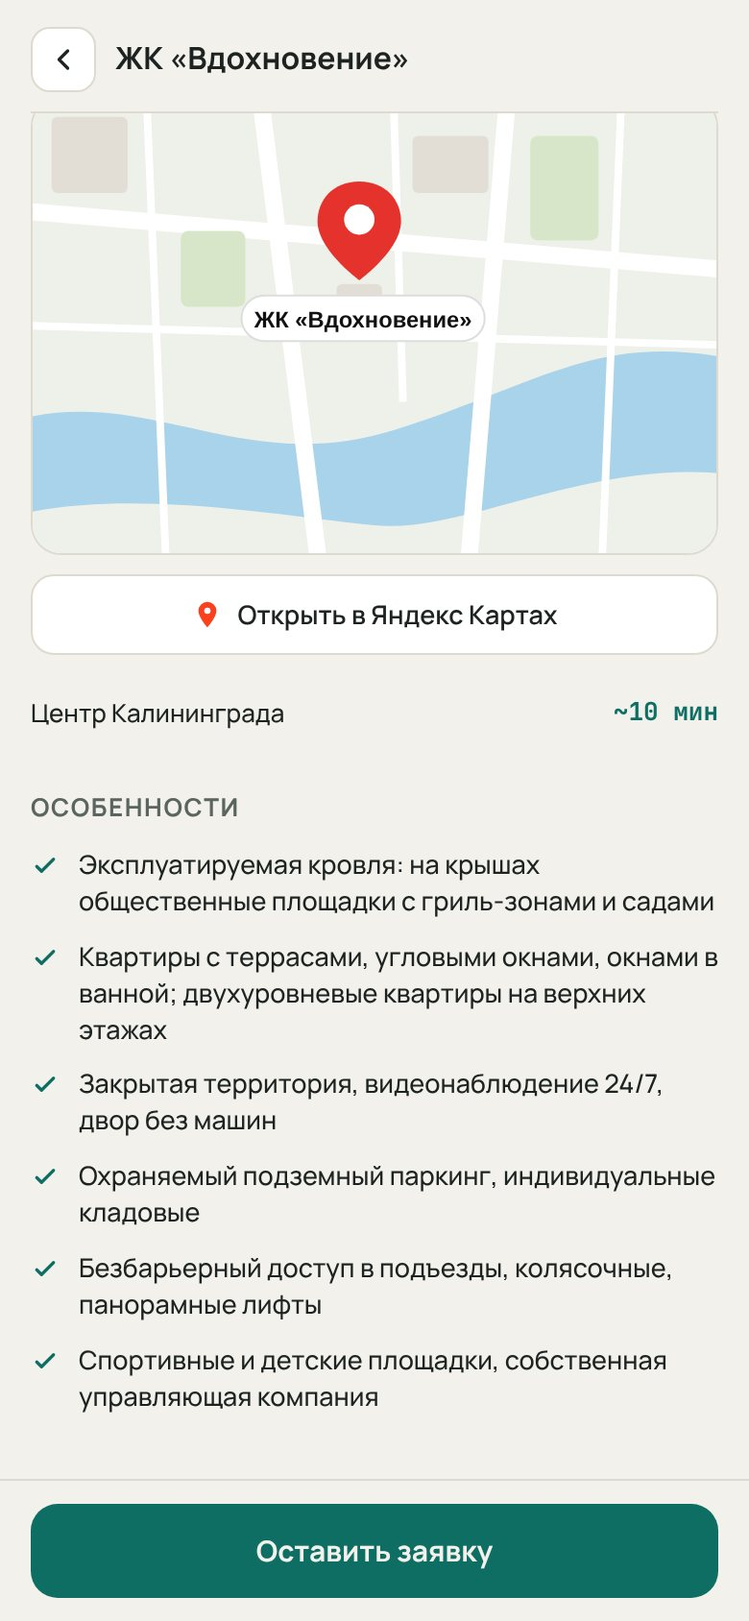
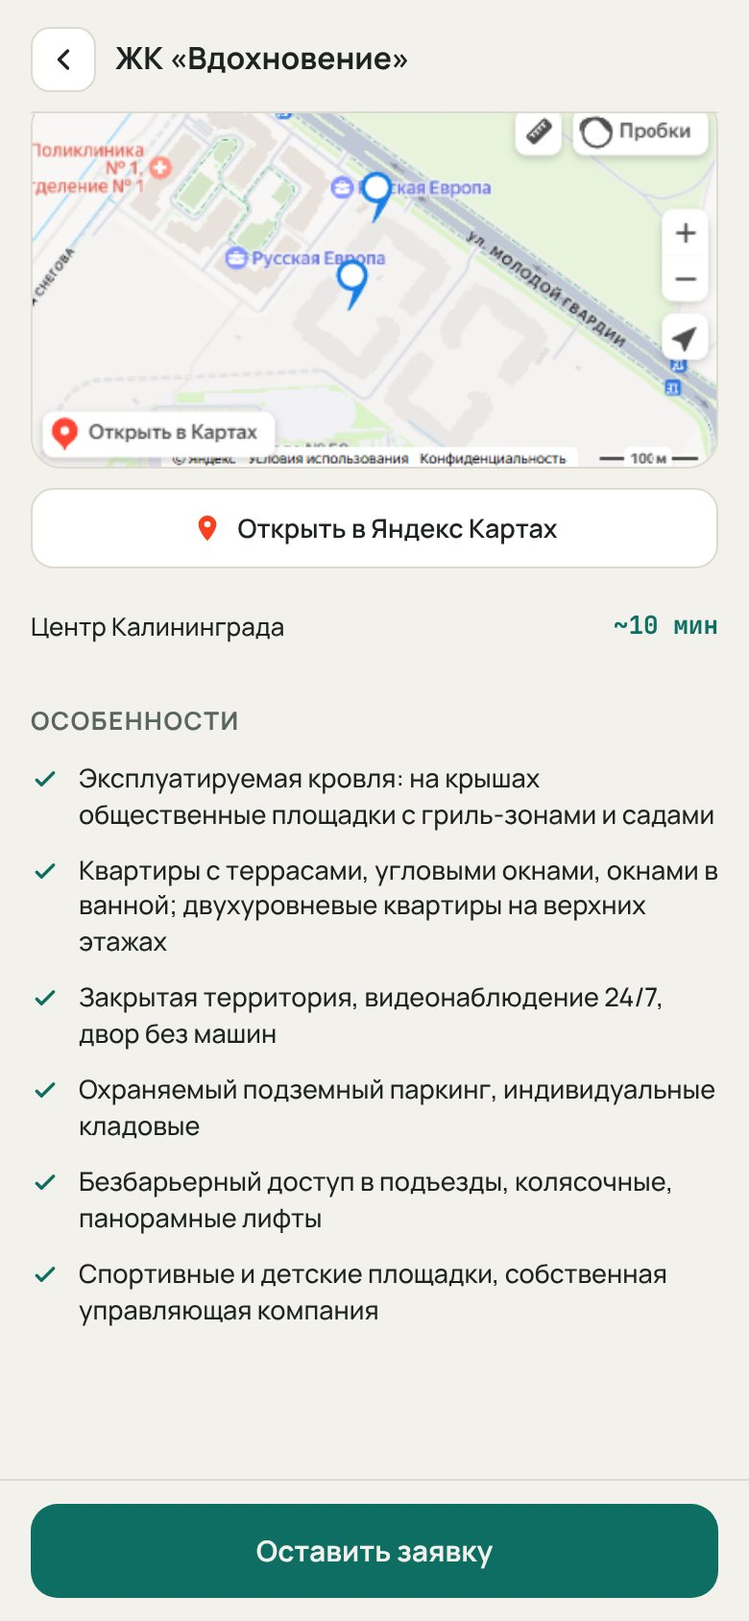
Лендинг: настоящая карта, крупные подписи разделов, слайд «Каждую страницу настроим как угодно», новый призыв в конце
Claude-Session: https://claude.ai/code/session_01Q5Q9p3o1jkcEsPCjLJeXYA

diff --git a/landing/index.html b/landing/index.html
@@ -38,7 +38,7 @@ summary::-webkit-details-marker{display:none}
 
 <div style="display: flex; flex-wrap: wrap; gap: clamp(36px, 5vw, 64px); align-items: center; padding-top: clamp(20px, 4vw, 48px)">
 <div style="flex: 1 1 480px; display: flex; flex-direction: column; gap: 24px; min-width: 0">
-<p style="margin: 0; align-self: flex-start; padding: 8px 14px; border: 1px solid #2E4A44; border-radius: 999px; font-size: 14px; font-weight: 700; color: #B9CBC5">Telegram Mini App для риелторов · Калининград</p>
+<p style="margin: 0; align-self: flex-start; padding: 10px 18px; border: 1px solid #2E4A44; border-radius: 999px; font-size: clamp(15px, 1.6vw, 18px); font-weight: 700; color: #B9CBC5">Telegram Mini App для риелторов · Калининград</p>
 <h1 style="margin: 0; font-family: 'Unbounded', Arial, sans-serif; font-size: clamp(33px, 8.6vw, 66px); font-weight: 800; line-height: 1.02; letter-spacing: -0.02em">Новостройки в&nbsp;одной <span style="color: #FF6A3D">ссылке</span></h1>
 <p style="margin: 0; font-size: clamp(18px, 2vw, 22px); line-height: 1.5; color: #B9CBC5; max-width: 560px">Клиент сам листает ЖК, цены и планировки прямо в Telegram. Вам приходит готовая заявка с именем и телефоном.</p>
 <div style="display: flex; flex-wrap: wrap; gap: 12px">
@@ -190,7 +190,7 @@ summary::-webkit-details-marker{display:none}
 <div style="padding: clamp(64px, 9vw, 120px) 0; background: #0E6E64">
 <div style="max-width: 1240px; margin: 0 auto; padding: 0 20px; display: flex; flex-wrap: wrap; gap: clamp(36px, 5vw, 72px); align-items: center">
 <div style="flex: 1 1 440px; min-width: 0; display: flex; flex-direction: column; gap: 20px">
-<p style="margin: 0; align-self: flex-start; padding: 14px 26px; background: #FF6A3D; color: #0D1715; border-radius: 999px; font-family: 'Unbounded', Arial, sans-serif; font-size: clamp(20px, 2.4vw, 28px); font-weight: 800; letter-spacing: -0.01em">Идея для продаж</p>
+<p style="margin: 0; align-self: flex-start; background: #FF6A3D; color: #0D1715; padding: 12px 24px; border-radius: 999px; font-family: 'Unbounded', Arial, sans-serif; font-size: clamp(18px, 2.2vw, 26px); font-weight: 800; letter-spacing: -0.01em">Идея для продаж</p>
 <h2 style="margin: 0; font-family: 'Unbounded', Arial, sans-serif; font-size: clamp(30px, 4vw, 52px); font-weight: 800; line-height: 1.06; letter-spacing: -0.02em">Снимаете обзоры?<span style="display: block; margin-top: 10px; color: #FFD9C9; font-size: 0.72em; line-height: 1.12">Пусть каждый обзор ведёт в&nbsp;витрину</span></h2>
 <p style="margin: 0; font-size: clamp(17px, 1.8vw, 20px); line-height: 1.55; color: #D5E6E1; max-width: 560px">Вы снимаете обзор ЖК для сторис в Telegram или статуса в WhatsApp. В видео говорите: «Цены и&nbsp;планировки этого ЖК по&nbsp;ссылке», а ссылку прикрепляете к&nbsp;сторис или пишете в&nbsp;подписи.</p>
 <div style="display: flex; flex-direction: column; max-width: 560px">
@@ -231,14 +231,14 @@ summary::-webkit-details-marker{display:none}
 <!-- RESALE: вкладка «Вторичка» -->
 <div style="padding: clamp(64px, 9vw, 120px) 0; background: #F2EEE6; color: #0D1715">
 <div style="max-width: 1240px; margin: 0 auto; padding: 0 20px; display: flex; flex-wrap: wrap; gap: clamp(36px, 5vw, 72px); align-items: center">
-<div style="flex: 1 1 440px; min-width: 0; display: flex; flex-direction: column; gap: 20px"><p style="margin: 0; align-self: flex-start; padding: 8px 14px; background: #FF6A3D; color: #0D1715; border-radius: 999px; font-size: 14px; font-weight: 800">Новое</p><h2 style="margin: 0; font-family: 'Unbounded', Arial, sans-serif; font-size: clamp(30px, 4.6vw, 60px); font-weight: 800; line-height: 1.05; letter-spacing: -0.02em">Вторичное жильё рядом с&nbsp;новостройками</h2><p style="margin: 0; font-size: clamp(17px, 1.8vw, 20px); line-height: 1.55; color: #3C4A46; max-width: 600px">В витрине есть вкладка «Вторичка». Каждый риелтор показывает там свои объекты на&nbsp;вторичном рынке: присылаете объявление и&nbsp;фото, и&nbsp;оно появляется в&nbsp;вашей витрине.</p><ul style="margin: 0; padding: 0; list-style: none; display: flex; flex-direction: column; gap: 12px; max-width: 600px"><li style="display: flex; gap: 12px; align-items: flex-start; font-size: 17px; line-height: 1.45; color: #0D1715"><svg viewBox="0 0 24 24" fill="none" stroke="#0E6E64" stroke-width="3" stroke-linecap="round" stroke-linejoin="round" aria-hidden="true" style="flex: none; width: 22px; height: 22px; margin-top: 2px"><path d="M5 12.5l4.5 4.5L19 7"/></svg><span>Только ваши объекты, не общая доска объявлений</span></li><li style="display: flex; gap: 12px; align-items: flex-start; font-size: 17px; line-height: 1.45; color: #0D1715"><svg viewBox="0 0 24 24" fill="none" stroke="#0E6E64" stroke-width="3" stroke-linecap="round" stroke-linejoin="round" aria-hidden="true" style="flex: none; width: 22px; height: 22px; margin-top: 2px"><path d="M5 12.5l4.5 4.5L19 7"/></svg><span>Все фото, цена, полное описание и&nbsp;карта</span></li><li style="display: flex; gap: 12px; align-items: flex-start; font-size: 17px; line-height: 1.45; color: #0D1715"><svg viewBox="0 0 24 24" fill="none" stroke="#0E6E64" stroke-width="3" stroke-linecap="round" stroke-linejoin="round" aria-hidden="true" style="flex: none; width: 22px; height: 22px; margin-top: 2px"><path d="M5 12.5l4.5 4.5L19 7"/></svg><span>Кнопка «Записаться на&nbsp;просмотр», заявка приходит вам</span></li></ul></div><div style="flex: 1 1 420px; min-width: 0; display: flex; justify-content: center; align-items: center; gap: clamp(12px, 2.5vw, 28px)"><div style="width: clamp(150px, 19vw, 230px); flex: none; aspect-ratio: 390 / 844; box-sizing: border-box; padding: 8px; background: #050908; border-radius: 32px; box-shadow: 0 30px 60px rgba(0,0,0,0.35); transform: rotate(-4deg)"><img src="img/scr-resale.jpg?v=2" alt="Вкладка «Вторичка»: список объектов" style="width: 100%; height: 100%; object-fit: cover; object-position: top; border-radius: 25px; display: block"></div><div style="width: clamp(150px, 19vw, 230px); flex: none; aspect-ratio: 390 / 844; box-sizing: border-box; padding: 8px; background: #050908; border-radius: 32px; box-shadow: 0 30px 60px rgba(0,0,0,0.35); transform: rotate(4deg)"><img src="img/scr-listing.jpg?v=2" alt="Страница объекта на вторичке" style="width: 100%; height: 100%; object-fit: cover; object-position: top; border-radius: 25px; display: block"></div></div>
+<div style="flex: 1 1 440px; min-width: 0; display: flex; flex-direction: column; gap: 20px"><p style="margin: 0; align-self: flex-start; background: #FF6A3D; color: #0D1715; padding: 12px 24px; border-radius: 999px; font-family: 'Unbounded', Arial, sans-serif; font-size: clamp(18px, 2.2vw, 26px); font-weight: 800; letter-spacing: -0.01em">Раздел «Вторичка»</p><h2 style="margin: 0; font-family: 'Unbounded', Arial, sans-serif; font-size: clamp(30px, 4.6vw, 60px); font-weight: 800; line-height: 1.05; letter-spacing: -0.02em">Вторичное жильё рядом с&nbsp;новостройками</h2><p style="margin: 0; font-size: clamp(17px, 1.8vw, 20px); line-height: 1.55; color: #3C4A46; max-width: 600px">В витрине есть вкладка «Вторичка». Каждый риелтор показывает там свои объекты на&nbsp;вторичном рынке: присылаете объявление и&nbsp;фото, и&nbsp;оно появляется в&nbsp;вашей витрине.</p><ul style="margin: 0; padding: 0; list-style: none; display: flex; flex-direction: column; gap: 12px; max-width: 600px"><li style="display: flex; gap: 12px; align-items: flex-start; font-size: 17px; line-height: 1.45; color: #0D1715"><svg viewBox="0 0 24 24" fill="none" stroke="#0E6E64" stroke-width="3" stroke-linecap="round" stroke-linejoin="round" aria-hidden="true" style="flex: none; width: 22px; height: 22px; margin-top: 2px"><path d="M5 12.5l4.5 4.5L19 7"/></svg><span>Только ваши объекты, не общая доска объявлений</span></li><li style="display: flex; gap: 12px; align-items: flex-start; font-size: 17px; line-height: 1.45; color: #0D1715"><svg viewBox="0 0 24 24" fill="none" stroke="#0E6E64" stroke-width="3" stroke-linecap="round" stroke-linejoin="round" aria-hidden="true" style="flex: none; width: 22px; height: 22px; margin-top: 2px"><path d="M5 12.5l4.5 4.5L19 7"/></svg><span>Все фото, цена, полное описание и&nbsp;карта</span></li><li style="display: flex; gap: 12px; align-items: flex-start; font-size: 17px; line-height: 1.45; color: #0D1715"><svg viewBox="0 0 24 24" fill="none" stroke="#0E6E64" stroke-width="3" stroke-linecap="round" stroke-linejoin="round" aria-hidden="true" style="flex: none; width: 22px; height: 22px; margin-top: 2px"><path d="M5 12.5l4.5 4.5L19 7"/></svg><span>Кнопка «Записаться на&nbsp;просмотр», заявка приходит вам</span></li></ul></div><div style="flex: 1 1 420px; min-width: 0; display: flex; justify-content: center; align-items: center; gap: clamp(12px, 2.5vw, 28px)"><div style="width: clamp(150px, 19vw, 230px); flex: none; aspect-ratio: 390 / 844; box-sizing: border-box; padding: 8px; background: #050908; border-radius: 32px; box-shadow: 0 30px 60px rgba(0,0,0,0.35); transform: rotate(-4deg)"><img src="img/scr-resale.jpg?v=2" alt="Вкладка «Вторичка»: список объектов" style="width: 100%; height: 100%; object-fit: cover; object-position: top; border-radius: 25px; display: block"></div><div style="width: clamp(150px, 19vw, 230px); flex: none; aspect-ratio: 390 / 844; box-sizing: border-box; padding: 8px; background: #050908; border-radius: 32px; box-shadow: 0 30px 60px rgba(0,0,0,0.35); transform: rotate(4deg)"><img src="img/scr-listing.jpg?v=2" alt="Страница объекта на вторичке" style="width: 100%; height: 100%; object-fit: cover; object-position: top; border-radius: 25px; display: block"></div></div>
 </div>
 </div>
 
 <!-- ZHK EXAMPLE + LEAD -->
 <div style="padding: clamp(64px, 9vw, 120px) 0; background: #0D1715; color: #F2EEE6">
 <div style="max-width: 1240px; margin: 0 auto; padding: 0 20px; display: flex; flex-direction: column; gap: clamp(32px, 4.5vw, 56px)">
-<div style="display: flex; flex-direction: column; gap: 18px"><p style="margin: 0; align-self: flex-start; padding: 8px 14px; background: #142320; color: #FF6A3D; border-radius: 999px; font-size: 14px; font-weight: 800">На примере ЖК «Вдохновение»</p><h2 style="margin: 0; font-family: 'Unbounded', Arial, sans-serif; font-size: clamp(30px, 4.6vw, 60px); font-weight: 800; line-height: 1.05; letter-spacing: -0.02em">Всё о&nbsp;ЖК на&nbsp;одной странице</h2><p style="margin: 0; font-size: clamp(17px, 1.8vw, 20px); line-height: 1.55; color: #B9CBC5; max-width: 600px">Клиент открывает ЖК и&nbsp;видит всё, что обычно приходится пересылать файлами. Вот что на&nbsp;странице, сверху вниз.</p></div>
+<div style="display: flex; flex-direction: column; gap: 18px"><p style="margin: 0; align-self: flex-start; background: #142320; color: #FF6A3D; padding: 12px 24px; border-radius: 999px; font-family: 'Unbounded', Arial, sans-serif; font-size: clamp(18px, 2.2vw, 26px); font-weight: 800; letter-spacing: -0.01em">На примере ЖК «Вдохновение»</p><h2 style="margin: 0; font-family: 'Unbounded', Arial, sans-serif; font-size: clamp(30px, 4.6vw, 60px); font-weight: 800; line-height: 1.05; letter-spacing: -0.02em">Всё о&nbsp;ЖК на&nbsp;одной странице</h2><p style="margin: 0; font-size: clamp(17px, 1.8vw, 20px); line-height: 1.55; color: #B9CBC5; max-width: 600px">Клиент открывает ЖК и&nbsp;видит всё, что обычно приходится пересылать файлами. Вот что на&nbsp;странице, сверху вниз.</p></div>
 <div style="display: flex; flex-wrap: wrap; gap: clamp(16px, 2.4vw, 28px); justify-content: center"><div style="flex: 1 1 150px; max-width: 236px; min-width: 140px; display: flex; flex-direction: column; gap: 14px">
 <div style="width: 100%; flex: none; aspect-ratio: 390 / 844; box-sizing: border-box; padding: 8px; background: #050908; border-radius: 32px; box-shadow: 0 30px 60px rgba(0,0,0,0.35); transform: rotate(0deg)"><img src="img/scr-zhk.jpg?v=2" alt="Фото и главное" style="width: 100%; height: 100%; object-fit: cover; object-position: top; border-radius: 25px; display: block"></div>
 <div style="display: flex; gap: 10px; align-items: flex-start"><p style="margin: 0; flex: none; font-family: 'Unbounded', Arial, sans-serif; font-size: 28px; font-weight: 800; line-height: 1; color: transparent; -webkit-text-stroke: 1.5px #FF6A3D">1</p><div style="display: flex; flex-direction: column; gap: 4px"><h3 style="margin: 0; font-family: 'Unbounded', Arial, sans-serif; font-size: 17px; font-weight: 700">Фото и&nbsp;главное</h3><p style="margin: 0; font-size: 15px; line-height: 1.45; color: #B9CBC5">Галерея, адрес, этажность, количество квартир, потолки.</p></div></div>
@@ -249,27 +249,27 @@ summary::-webkit-details-marker{display:none}
 <div style="width: 100%; flex: none; aspect-ratio: 390 / 844; box-sizing: border-box; padding: 8px; background: #050908; border-radius: 32px; box-shadow: 0 30px 60px rgba(0,0,0,0.35); transform: rotate(0deg)"><img src="img/scr-zhk-spec.jpg?v=2" alt="Дом и условия" style="width: 100%; height: 100%; object-fit: cover; object-position: top; border-radius: 25px; display: block"></div>
 <div style="display: flex; gap: 10px; align-items: flex-start"><p style="margin: 0; flex: none; font-family: 'Unbounded', Arial, sans-serif; font-size: 28px; font-weight: 800; line-height: 1; color: transparent; -webkit-text-stroke: 1.5px #FF6A3D">3</p><div style="display: flex; flex-direction: column; gap: 4px"><h3 style="margin: 0; font-family: 'Unbounded', Arial, sans-serif; font-size: 17px; font-weight: 700">Дом и&nbsp;условия</h3><p style="margin: 0; font-size: 15px; line-height: 1.45; color: #B9CBC5">Застройщик, материал, отделка, паркинг. Рассрочка, ипотека, маткапитал.</p></div></div>
 </div><div style="flex: 1 1 150px; max-width: 236px; min-width: 140px; display: flex; flex-direction: column; gap: 14px">
-<div style="width: 100%; flex: none; aspect-ratio: 390 / 844; box-sizing: border-box; padding: 8px; background: #050908; border-radius: 32px; box-shadow: 0 30px 60px rgba(0,0,0,0.35); transform: rotate(0deg)"><img src="img/scr-zhk-map.jpg?v=2" alt="Карта и описание" style="width: 100%; height: 100%; object-fit: cover; object-position: top; border-radius: 25px; display: block"></div>
+<div style="width: 100%; flex: none; aspect-ratio: 390 / 844; box-sizing: border-box; padding: 8px; background: #050908; border-radius: 32px; box-shadow: 0 30px 60px rgba(0,0,0,0.35); transform: rotate(0deg)"><img src="img/scr-zhk-map.jpg?v=3" alt="Карта и описание" style="width: 100%; height: 100%; object-fit: cover; object-position: top; border-radius: 25px; display: block"></div>
 <div style="display: flex; gap: 10px; align-items: flex-start"><p style="margin: 0; flex: none; font-family: 'Unbounded', Arial, sans-serif; font-size: 28px; font-weight: 800; line-height: 1; color: transparent; -webkit-text-stroke: 1.5px #FF6A3D">4</p><div style="display: flex; flex-direction: column; gap: 4px"><h3 style="margin: 0; font-family: 'Unbounded', Arial, sans-serif; font-size: 17px; font-weight: 700">Карта и&nbsp;описание</h3><p style="margin: 0; font-size: 15px; line-height: 1.45; color: #B9CBC5">Где находится ЖК, сколько до&nbsp;центра, чем он хорош.</p></div></div>
 </div><div style="flex: 1 1 150px; max-width: 236px; min-width: 140px; display: flex; flex-direction: column; gap: 14px">
 <div style="width: 100%; flex: none; aspect-ratio: 390 / 844; box-sizing: border-box; padding: 8px; background: #050908; border-radius: 32px; box-shadow: 0 30px 60px rgba(0,0,0,0.35); transform: rotate(0deg)"><img src="img/scr-form.jpg?v=2" alt="Заявка" style="width: 100%; height: 100%; object-fit: cover; object-position: top; border-radius: 25px; display: block"></div>
 <div style="display: flex; gap: 10px; align-items: flex-start"><p style="margin: 0; flex: none; font-family: 'Unbounded', Arial, sans-serif; font-size: 28px; font-weight: 800; line-height: 1; color: transparent; -webkit-text-stroke: 1.5px #FF6A3D">5</p><div style="display: flex; flex-direction: column; gap: 4px"><h3 style="margin: 0; font-family: 'Unbounded', Arial, sans-serif; font-size: 17px; font-weight: 700">Заявка</h3><p style="margin: 0; font-size: 15px; line-height: 1.45; color: #B9CBC5">Имя, телефон, галочка согласия. Одно касание.</p></div></div>
 </div></div>
-<div style="display: flex; flex-wrap: wrap; gap: clamp(28px, 5vw, 64px); align-items: center; margin-top: clamp(16px, 3vw, 40px)"><div style="flex: 1 1 380px; min-width: 0; display: flex; flex-direction: column; gap: 20px"><p style="margin: 0; align-self: flex-start; padding: 8px 14px; background: #FF6A3D; color: #0D1715; border-radius: 999px; font-size: 14px; font-weight: 800">Так приходит заявка</p><h2 style="margin: 0; font-family: 'Unbounded', Arial, sans-serif; font-size: clamp(30px, 4.6vw, 60px); font-weight: 800; line-height: 1.05; letter-spacing: -0.02em">Готовая заявка у&nbsp;вас в&nbsp;Telegram</h2><p style="margin: 0; font-size: clamp(17px, 1.8vw, 20px); line-height: 1.55; color: #B9CBC5; max-width: 600px">Клиент нажал «Оставить заявку», и&nbsp;через секунду бот присылает вам сообщение: какой ЖК, имя, телефон и&nbsp;ник в&nbsp;Telegram. Можно сразу перезвонить или написать.</p><p style="margin: 0; font-size: 14px; color: #8FA7A0">Имя и телефон в примере вымышленные.</p></div><div style="flex: 1 1 420px; min-width: 0; display: flex; justify-content: center"><div style="width: 100%; max-width: 560px; box-sizing: border-box; background: #D9E4CF; border-radius: 28px; padding: clamp(14px, 2vw, 22px); display: flex; flex-direction: column; gap: 12px; box-shadow: 0 30px 60px rgba(0,0,0,0.3)"><div style="display: flex; align-items: center; gap: 12px; padding: 4px 6px 10px 6px; border-bottom: 1px solid rgba(0,0,0,0.08)"><p style="margin: 0; flex: none; width: 44px; height: 44px; border-radius: 50%; background: #0E6E64; color: #FFFFFF; display: flex; align-items: center; justify-content: center; font-weight: 800; font-size: 18px">Е</p><div><p style="margin: 0; font-weight: 800; font-size: 16px; color: #111">Ваш бот</p><p style="margin: 0; font-size: 13px; color: #5F6B66">бот</p></div></div><div style="align-self: flex-start; background: #FFFFFF; color: #111; border-radius: 18px 18px 18px 4px; padding: 16px 18px; font-size: clamp(19px, 2.6vw, 26px); line-height: 1.5; font-family: Arial, sans-serif; box-sizing: border-box; max-width: 100%">🏠 <b>Новая заявка</b><br>ЖК: <b>ЖК «Вдохновение»</b><br>Имя: Анна<br>Телефон: +7 924 123-45-67<br>Telegram: <span style="color: #168ACD">@anna_klg</span><span style="display: block; text-align: right; font-size: 13px; color: #9AA3A0; margin-top: 6px">19:42</span></div></div></div></div>
+<div style="display: flex; flex-wrap: wrap; gap: clamp(28px, 5vw, 64px); align-items: center; margin-top: clamp(16px, 3vw, 40px)"><div style="flex: 1 1 380px; min-width: 0; display: flex; flex-direction: column; gap: 20px"><p style="margin: 0; align-self: flex-start; background: #FF6A3D; color: #0D1715; padding: 12px 24px; border-radius: 999px; font-family: 'Unbounded', Arial, sans-serif; font-size: clamp(18px, 2.2vw, 26px); font-weight: 800; letter-spacing: -0.01em">Так приходит заявка</p><h2 style="margin: 0; font-family: 'Unbounded', Arial, sans-serif; font-size: clamp(30px, 4.6vw, 60px); font-weight: 800; line-height: 1.05; letter-spacing: -0.02em">Готовая заявка у&nbsp;вас в&nbsp;Telegram</h2><p style="margin: 0; font-size: clamp(17px, 1.8vw, 20px); line-height: 1.55; color: #B9CBC5; max-width: 600px">Клиент нажал «Оставить заявку», и&nbsp;через секунду бот присылает вам сообщение: какой ЖК, имя, телефон и&nbsp;ник в&nbsp;Telegram. Можно сразу перезвонить или написать.</p><p style="margin: 0; font-size: 14px; color: #8FA7A0">Имя и телефон в примере вымышленные.</p></div><div style="flex: 1 1 420px; min-width: 0; display: flex; justify-content: center"><div style="width: 100%; max-width: 560px; box-sizing: border-box; background: #D9E4CF; border-radius: 28px; padding: clamp(14px, 2vw, 22px); display: flex; flex-direction: column; gap: 12px; box-shadow: 0 30px 60px rgba(0,0,0,0.3)"><div style="display: flex; align-items: center; gap: 12px; padding: 4px 6px 10px 6px; border-bottom: 1px solid rgba(0,0,0,0.08)"><p style="margin: 0; flex: none; width: 44px; height: 44px; border-radius: 50%; background: #0E6E64; color: #FFFFFF; display: flex; align-items: center; justify-content: center; font-weight: 800; font-size: 18px">Е</p><div><p style="margin: 0; font-weight: 800; font-size: 16px; color: #111">Ваш бот</p><p style="margin: 0; font-size: 13px; color: #5F6B66">бот</p></div></div><div style="align-self: flex-start; background: #FFFFFF; color: #111; border-radius: 18px 18px 18px 4px; padding: 16px 18px; font-size: clamp(19px, 2.6vw, 26px); line-height: 1.5; font-family: Arial, sans-serif; box-sizing: border-box; max-width: 100%">🏠 <b>Новая заявка</b><br>ЖК: <b>ЖК «Вдохновение»</b><br>Имя: Анна<br>Телефон: +7 924 123-45-67<br>Telegram: <span style="color: #168ACD">@anna_klg</span><span style="display: block; text-align: right; font-size: 13px; color: #9AA3A0; margin-top: 6px">19:42</span></div></div></div></div>
 </div>
 </div>
 
 <!-- STATS: /stats -->
 <div style="padding: clamp(64px, 9vw, 120px) 0; background: radial-gradient(circle at 90% 10%, #17463F 0%, #0D1715 55%); color: #F2EEE6">
 <div style="max-width: 1240px; margin: 0 auto; padding: 0 20px; display: flex; flex-wrap: wrap; gap: clamp(36px, 5vw, 72px); align-items: center">
-<div style="flex: 1 1 440px; min-width: 0; display: flex; flex-direction: column; gap: 20px"><p style="margin: 0; align-self: flex-start; padding: 8px 14px; background: #FF6A3D; color: #0D1715; border-radius: 999px; font-size: 14px; font-weight: 800">Новое</p><h2 style="margin: 0; font-family: 'Unbounded', Arial, sans-serif; font-size: clamp(30px, 4.6vw, 60px); font-weight: 800; line-height: 1.05; letter-spacing: -0.02em">Видно, кто и&nbsp;что смотрел</h2><p style="margin: 0; font-size: clamp(17px, 1.8vw, 20px); line-height: 1.55; color: #B9CBC5; max-width: 600px">Напишите своему боту команду /stats, и&nbsp;он пришлёт статистику витрины: сколько раз её открывали за&nbsp;день, неделю и&nbsp;месяц, какие ЖК смотрят чаще всего и&nbsp;кто заходил последним.</p><ul style="margin: 0; padding: 0; list-style: none; display: flex; flex-direction: column; gap: 12px; max-width: 600px"><li style="display: flex; gap: 12px; align-items: flex-start; font-size: 17px; line-height: 1.45; color: #F2EEE6"><svg viewBox="0 0 24 24" fill="none" stroke="#FF6A3D" stroke-width="3" stroke-linecap="round" stroke-linejoin="round" aria-hidden="true" style="flex: none; width: 22px; height: 22px; margin-top: 2px"><path d="M5 12.5l4.5 4.5L19 7"/></svg><span>Понятно, какие ЖК интересны вашим клиентам</span></li><li style="display: flex; gap: 12px; align-items: flex-start; font-size: 17px; line-height: 1.45; color: #F2EEE6"><svg viewBox="0 0 24 24" fill="none" stroke="#FF6A3D" stroke-width="3" stroke-linecap="round" stroke-linejoin="round" aria-hidden="true" style="flex: none; width: 22px; height: 22px; margin-top: 2px"><path d="M5 12.5l4.5 4.5L19 7"/></svg><span>Видно, кто заходил, даже если не&nbsp;оставил заявку: можно написать первым</span></li><li style="display: flex; gap: 12px; align-items: flex-start; font-size: 17px; line-height: 1.45; color: #F2EEE6"><svg viewBox="0 0 24 24" fill="none" stroke="#FF6A3D" stroke-width="3" stroke-linecap="round" stroke-linejoin="round" aria-hidden="true" style="flex: none; width: 22px; height: 22px; margin-top: 2px"><path d="M5 12.5l4.5 4.5L19 7"/></svg><span>Ваши собственные заходы не считаются</span></li></ul><p style="margin: 0; font-size: 14px; color: #8FA7A0">Цифры и имена в примере справа условные.</p></div><div style="flex: 1 1 420px; min-width: 0; display: flex; justify-content: center"><div style="width: 100%; max-width: 560px; box-sizing: border-box; background: #D9E4CF; border-radius: 28px; padding: clamp(14px, 2vw, 22px); display: flex; flex-direction: column; gap: 12px; box-shadow: 0 30px 60px rgba(0,0,0,0.3)"><div style="display: flex; align-items: center; gap: 12px; padding: 4px 6px 10px 6px; border-bottom: 1px solid rgba(0,0,0,0.08)"><p style="margin: 0; flex: none; width: 44px; height: 44px; border-radius: 50%; background: #0E6E64; color: #FFFFFF; display: flex; align-items: center; justify-content: center; font-weight: 800; font-size: 18px">Е</p><div><p style="margin: 0; font-weight: 800; font-size: 16px; color: #111">Ваш бот</p><p style="margin: 0; font-size: 13px; color: #5F6B66">бот</p></div></div><div style="align-self: flex-end; background: #E1FBC8; color: #111; border-radius: 18px 18px 4px 18px; padding: 10px 16px; font-size: clamp(15px, 1.7vw, 18px); font-family: Arial, sans-serif">/stats</div><div style="align-self: flex-start; background: #FFFFFF; color: #111; border-radius: 18px 18px 18px 4px; padding: 16px 18px; font-size: clamp(15px, 1.7vw, 18px); line-height: 1.5; font-family: Arial, sans-serif; box-sizing: border-box; max-width: 100%">📊 <b>Статистика приложения</b><br><br>Сегодня: 14 открытий · 9 человек<br>За 7 дней: 86 открытий · 41 человек<br>За 30 дней: 312 открытий · 127 человек<br><br>🏆 <b>Чаще смотрели (30 дней):</b><br>1. ЖК «Вдохновение» — 48<br>2. ЖК «Невский парк» — 37<br>3. ЖК «Морис» — 29<br><br>📂 Разделы: Новостройки 140 · Побережье 96 · Коттеджи 51 · Вторичка 25<br><br>👤 <b>Последние посетители:</b><br>• Анна (<span style="color: #168ACD">@anna_klg</span>), 20:58, ЖК «Вдохновение»<br>• Сергей, 20:31, Посёлок «Родники»</div></div></div>
+<div style="flex: 1 1 440px; min-width: 0; display: flex; flex-direction: column; gap: 20px"><p style="margin: 0; align-self: flex-start; background: #FF6A3D; color: #0D1715; padding: 12px 24px; border-radius: 999px; font-family: 'Unbounded', Arial, sans-serif; font-size: clamp(18px, 2.2vw, 26px); font-weight: 800; letter-spacing: -0.01em">Статистика</p><h2 style="margin: 0; font-family: 'Unbounded', Arial, sans-serif; font-size: clamp(30px, 4.6vw, 60px); font-weight: 800; line-height: 1.05; letter-spacing: -0.02em">Видно, кто и&nbsp;что смотрел</h2><p style="margin: 0; font-size: clamp(17px, 1.8vw, 20px); line-height: 1.55; color: #B9CBC5; max-width: 600px">Напишите своему боту команду /stats, и&nbsp;он пришлёт статистику витрины: сколько раз её открывали за&nbsp;день, неделю и&nbsp;месяц, какие ЖК смотрят чаще всего и&nbsp;кто заходил последним.</p><ul style="margin: 0; padding: 0; list-style: none; display: flex; flex-direction: column; gap: 12px; max-width: 600px"><li style="display: flex; gap: 12px; align-items: flex-start; font-size: 17px; line-height: 1.45; color: #F2EEE6"><svg viewBox="0 0 24 24" fill="none" stroke="#FF6A3D" stroke-width="3" stroke-linecap="round" stroke-linejoin="round" aria-hidden="true" style="flex: none; width: 22px; height: 22px; margin-top: 2px"><path d="M5 12.5l4.5 4.5L19 7"/></svg><span>Понятно, какие ЖК интересны вашим клиентам</span></li><li style="display: flex; gap: 12px; align-items: flex-start; font-size: 17px; line-height: 1.45; color: #F2EEE6"><svg viewBox="0 0 24 24" fill="none" stroke="#FF6A3D" stroke-width="3" stroke-linecap="round" stroke-linejoin="round" aria-hidden="true" style="flex: none; width: 22px; height: 22px; margin-top: 2px"><path d="M5 12.5l4.5 4.5L19 7"/></svg><span>Видно, кто заходил, даже если не&nbsp;оставил заявку: можно написать первым</span></li><li style="display: flex; gap: 12px; align-items: flex-start; font-size: 17px; line-height: 1.45; color: #F2EEE6"><svg viewBox="0 0 24 24" fill="none" stroke="#FF6A3D" stroke-width="3" stroke-linecap="round" stroke-linejoin="round" aria-hidden="true" style="flex: none; width: 22px; height: 22px; margin-top: 2px"><path d="M5 12.5l4.5 4.5L19 7"/></svg><span>Ваши собственные заходы не считаются</span></li></ul><p style="margin: 0; font-size: 14px; color: #8FA7A0">Цифры и имена в примере справа условные.</p></div><div style="flex: 1 1 420px; min-width: 0; display: flex; justify-content: center"><div style="width: 100%; max-width: 560px; box-sizing: border-box; background: #D9E4CF; border-radius: 28px; padding: clamp(14px, 2vw, 22px); display: flex; flex-direction: column; gap: 12px; box-shadow: 0 30px 60px rgba(0,0,0,0.3)"><div style="display: flex; align-items: center; gap: 12px; padding: 4px 6px 10px 6px; border-bottom: 1px solid rgba(0,0,0,0.08)"><p style="margin: 0; flex: none; width: 44px; height: 44px; border-radius: 50%; background: #0E6E64; color: #FFFFFF; display: flex; align-items: center; justify-content: center; font-weight: 800; font-size: 18px">Е</p><div><p style="margin: 0; font-weight: 800; font-size: 16px; color: #111">Ваш бот</p><p style="margin: 0; font-size: 13px; color: #5F6B66">бот</p></div></div><div style="align-self: flex-end; background: #E1FBC8; color: #111; border-radius: 18px 18px 4px 18px; padding: 10px 16px; font-size: clamp(15px, 1.7vw, 18px); font-family: Arial, sans-serif">/stats</div><div style="align-self: flex-start; background: #FFFFFF; color: #111; border-radius: 18px 18px 18px 4px; padding: 16px 18px; font-size: clamp(15px, 1.7vw, 18px); line-height: 1.5; font-family: Arial, sans-serif; box-sizing: border-box; max-width: 100%">📊 <b>Статистика приложения</b><br><br>Сегодня: 14 открытий · 9 человек<br>За 7 дней: 86 открытий · 41 человек<br>За 30 дней: 312 открытий · 127 человек<br><br>🏆 <b>Чаще смотрели (30 дней):</b><br>1. ЖК «Вдохновение» — 48<br>2. ЖК «Невский парк» — 37<br>3. ЖК «Морис» — 29<br><br>📂 Разделы: Новостройки 140 · Побережье 96 · Коттеджи 51 · Вторичка 25<br><br>👤 <b>Последние посетители:</b><br>• Анна (<span style="color: #168ACD">@anna_klg</span>), 20:58, ЖК «Вдохновение»<br>• Сергей, 20:31, Посёлок «Родники»</div></div></div>
 </div>
 </div>
 
 <!-- SERVICES: брокер и юрист -->
 <div style="padding: clamp(64px, 9vw, 120px) 0; background: #FF6A3D; color: #0D1715">
 <div style="max-width: 1240px; margin: 0 auto; padding: 0 20px; display: flex; flex-wrap: wrap; gap: clamp(36px, 5vw, 72px); align-items: center">
-<div style="flex: 1 1 440px; min-width: 0; display: flex; flex-direction: column; gap: 20px"><p style="margin: 0; align-self: flex-start; padding: 8px 14px; background: #0D1715; color: #F2EEE6; border-radius: 999px; font-size: 14px; font-weight: 800">Больше поводов написать вам</p><h2 style="margin: 0; font-family: 'Unbounded', Arial, sans-serif; font-size: clamp(30px, 4.6vw, 60px); font-weight: 800; line-height: 1.05; letter-spacing: -0.02em">Ипотечный брокер и&nbsp;юрист прямо в&nbsp;витрине</h2><p style="margin: 0; font-size: clamp(17px, 1.8vw, 20px); line-height: 1.55; color: #2A1A12; max-width: 600px">В приложении, которое открывается из вашего бота, есть блок «Наши услуги»: ипотечный брокер и&nbsp;юридические услуги. Клиент читает, чем вы поможете, и&nbsp;оставляет заявку. Она приходит вам, как и&nbsp;заявки на&nbsp;ЖК.</p><ul style="margin: 0; padding: 0; list-style: none; display: flex; flex-direction: column; gap: 12px; max-width: 600px"><li style="display: flex; gap: 12px; align-items: flex-start; font-size: 17px; line-height: 1.45; color: #0D1715"><svg viewBox="0 0 24 24" fill="none" stroke="#0D1715" stroke-width="3" stroke-linecap="round" stroke-linejoin="round" aria-hidden="true" style="flex: none; width: 22px; height: 22px; margin-top: 2px"><path d="M5 12.5l4.5 4.5L19 7"/></svg><span>Ипотека: заявка сразу в&nbsp;несколько банков</span></li><li style="display: flex; gap: 12px; align-items: flex-start; font-size: 17px; line-height: 1.45; color: #0D1715"><svg viewBox="0 0 24 24" fill="none" stroke="#0D1715" stroke-width="3" stroke-linecap="round" stroke-linejoin="round" aria-hidden="true" style="flex: none; width: 22px; height: 22px; margin-top: 2px"><path d="M5 12.5l4.5 4.5L19 7"/></svg><span>Юрист: проверка объекта, договора, сопровождение</span></li><li style="display: flex; gap: 12px; align-items: flex-start; font-size: 17px; line-height: 1.45; color: #0D1715"><svg viewBox="0 0 24 24" fill="none" stroke="#0D1715" stroke-width="3" stroke-linecap="round" stroke-linejoin="round" aria-hidden="true" style="flex: none; width: 22px; height: 22px; margin-top: 2px"><path d="M5 12.5l4.5 4.5L19 7"/></svg><span>Ваши услуги и&nbsp;тексты, без цен, если не&nbsp;хотите их показывать</span></li></ul></div><div style="flex: 1 1 420px; min-width: 0; display: flex; justify-content: center; align-items: center; gap: clamp(12px, 2.5vw, 28px)"><div style="width: clamp(150px, 19vw, 230px); flex: none; aspect-ratio: 390 / 844; box-sizing: border-box; padding: 8px; background: #050908; border-radius: 32px; box-shadow: 0 30px 60px rgba(0,0,0,0.35); transform: rotate(-4deg)"><img src="img/scr-services.jpg?v=2" alt="Главная: блок «Наши услуги»" style="width: 100%; height: 100%; object-fit: cover; object-position: top; border-radius: 25px; display: block"></div><div style="width: clamp(150px, 19vw, 230px); flex: none; aspect-ratio: 390 / 844; box-sizing: border-box; padding: 8px; background: #050908; border-radius: 32px; box-shadow: 0 30px 60px rgba(0,0,0,0.35); transform: rotate(4deg)"><img src="img/scr-svc-sheet.jpg?v=2" alt="Описание услуги ипотечного брокера" style="width: 100%; height: 100%; object-fit: cover; object-position: bottom; border-radius: 25px; display: block"></div></div>
+<div style="flex: 1 1 440px; min-width: 0; display: flex; flex-direction: column; gap: 20px"><p style="margin: 0; align-self: flex-start; background: #0D1715; color: #F2EEE6; padding: 12px 24px; border-radius: 999px; font-family: 'Unbounded', Arial, sans-serif; font-size: clamp(18px, 2.2vw, 26px); font-weight: 800; letter-spacing: -0.01em">Больше поводов написать вам</p><h2 style="margin: 0; font-family: 'Unbounded', Arial, sans-serif; font-size: clamp(30px, 4.6vw, 60px); font-weight: 800; line-height: 1.05; letter-spacing: -0.02em">Ипотечный брокер и&nbsp;юрист прямо в&nbsp;витрине</h2><p style="margin: 0; font-size: clamp(17px, 1.8vw, 20px); line-height: 1.55; color: #2A1A12; max-width: 600px">В приложении, которое открывается из вашего бота, есть блок «Наши услуги»: ипотечный брокер и&nbsp;юридические услуги. Клиент читает, чем вы поможете, и&nbsp;оставляет заявку. Она приходит вам, как и&nbsp;заявки на&nbsp;ЖК.</p><ul style="margin: 0; padding: 0; list-style: none; display: flex; flex-direction: column; gap: 12px; max-width: 600px"><li style="display: flex; gap: 12px; align-items: flex-start; font-size: 17px; line-height: 1.45; color: #0D1715"><svg viewBox="0 0 24 24" fill="none" stroke="#0D1715" stroke-width="3" stroke-linecap="round" stroke-linejoin="round" aria-hidden="true" style="flex: none; width: 22px; height: 22px; margin-top: 2px"><path d="M5 12.5l4.5 4.5L19 7"/></svg><span>Ипотека: заявка сразу в&nbsp;несколько банков</span></li><li style="display: flex; gap: 12px; align-items: flex-start; font-size: 17px; line-height: 1.45; color: #0D1715"><svg viewBox="0 0 24 24" fill="none" stroke="#0D1715" stroke-width="3" stroke-linecap="round" stroke-linejoin="round" aria-hidden="true" style="flex: none; width: 22px; height: 22px; margin-top: 2px"><path d="M5 12.5l4.5 4.5L19 7"/></svg><span>Юрист: проверка объекта, договора, сопровождение</span></li><li style="display: flex; gap: 12px; align-items: flex-start; font-size: 17px; line-height: 1.45; color: #0D1715"><svg viewBox="0 0 24 24" fill="none" stroke="#0D1715" stroke-width="3" stroke-linecap="round" stroke-linejoin="round" aria-hidden="true" style="flex: none; width: 22px; height: 22px; margin-top: 2px"><path d="M5 12.5l4.5 4.5L19 7"/></svg><span>Ваши услуги и&nbsp;тексты, без цен, если не&nbsp;хотите их показывать</span></li></ul></div><div style="flex: 1 1 420px; min-width: 0; display: flex; justify-content: center; align-items: center; gap: clamp(12px, 2.5vw, 28px)"><div style="width: clamp(150px, 19vw, 230px); flex: none; aspect-ratio: 390 / 844; box-sizing: border-box; padding: 8px; background: #050908; border-radius: 32px; box-shadow: 0 30px 60px rgba(0,0,0,0.35); transform: rotate(-4deg)"><img src="img/scr-services.jpg?v=2" alt="Главная: блок «Наши услуги»" style="width: 100%; height: 100%; object-fit: cover; object-position: top; border-radius: 25px; display: block"></div><div style="width: clamp(150px, 19vw, 230px); flex: none; aspect-ratio: 390 / 844; box-sizing: border-box; padding: 8px; background: #050908; border-radius: 32px; box-shadow: 0 30px 60px rgba(0,0,0,0.35); transform: rotate(4deg)"><img src="img/scr-svc-sheet.jpg?v=2" alt="Описание услуги ипотечного брокера" style="width: 100%; height: 100%; object-fit: cover; object-position: bottom; border-radius: 25px; display: block"></div></div>
 </div>
 </div>
 
@@ -277,7 +277,7 @@ summary::-webkit-details-marker{display:none}
 <div style="padding: clamp(64px, 9vw, 120px) 0; background: radial-gradient(circle at 10% 100%, #17463F 0%, #0D1715 55%)">
 <div style="max-width: 1240px; margin: 0 auto; padding: 0 20px; display: flex; flex-wrap: wrap; gap: clamp(36px, 5vw, 64px); align-items: center">
 <div style="flex: 1 1 420px; min-width: 0; display: flex; flex-direction: column; gap: 20px">
-<p style="margin: 0; align-self: flex-start; padding: 8px 14px; background: #FF6A3D; color: #0D1715; border-radius: 999px; font-size: 14px; font-weight: 800">Уже работает</p>
+<p style="margin: 0; align-self: flex-start; background: #FF6A3D; color: #0D1715; padding: 12px 24px; border-radius: 999px; font-family: 'Unbounded', Arial, sans-serif; font-size: clamp(18px, 2.2vw, 26px); font-weight: 800; letter-spacing: -0.01em">Уже работает</p>
 <h2 style="margin: 0; font-family: 'Unbounded', Arial, sans-serif; font-size: clamp(32px, 5vw, 64px); font-weight: 800; line-height: 1.04; letter-spacing: -0.02em">Один движок, у&nbsp;каждого своя витрина</h2>
 <p style="margin: 0; font-size: clamp(17px, 1.8vw, 20px); line-height: 1.55; color: #B9CBC5; max-width: 540px">Слева приложение Евгения, справа Светланы. Разные цвета, имя и фото риелтора, свой бот. Заявки приходят только хозяину витрины.</p>
 </div>
@@ -295,6 +295,42 @@ summary::-webkit-details-marker{display:none}
 <p style="margin: 0; font-size: 15px; font-weight: 700; color: #B9CBC5">Светлана</p>
 </div>
 </div>
+</div>
+</div>
+
+<!-- CUSTOM: всё настраивается под клиента -->
+<div style="padding: clamp(64px, 9vw, 120px) 0; background: #F2EEE6; color: #0D1715">
+<div style="max-width: 1240px; margin: 0 auto; padding: 0 20px; display: flex; flex-direction: column; gap: clamp(28px, 4vw, 48px)">
+<div style="display: flex; flex-direction: column; gap: 18px">
+<p style="margin: 0; align-self: flex-start; background: #0E6E64; color: #F2EEE6; padding: 12px 24px; border-radius: 999px; font-family: 'Unbounded', Arial, sans-serif; font-size: clamp(18px, 2.2vw, 26px); font-weight: 800; letter-spacing: -0.01em">Под любого клиента</p>
+<h2 style="margin: 0; font-family: 'Unbounded', Arial, sans-serif; font-size: clamp(30px, 4.6vw, 60px); font-weight: 800; line-height: 1.05; letter-spacing: -0.02em">Каждую страницу настроим как&nbsp;угодно</h2>
+<p style="margin: 0; font-size: clamp(17px, 1.8vw, 20px); line-height: 1.55; color: #3C4A46; max-width: 720px">Витрина не шаблонная. Под каждого риелтора или агентство меняем всё: от&nbsp;цвета кнопок до&nbsp;набора разделов. Клиент видит ваш бренд, а&nbsp;не чужой сервис.</p>
+</div>
+<div style="display: flex; flex-wrap: wrap; gap: 16px"><div style="flex: 1 1 300px; min-width: 0; display: flex; flex-direction: column; gap: 12px; background: #FFFFFF; border-radius: 24px; padding: 26px">
+<svg viewBox="0 0 24 24" fill="none" stroke="#FF6A3D" stroke-width="2" stroke-linecap="round" stroke-linejoin="round" aria-hidden="true" style="width: 40px; height: 40px"><circle cx="12" cy="12" r="9"/><path d="M12 3a9 9 0 0 0 0 18c1.5 0 2-1 2-2s-1-1.5-1-2.5 1-1.5 2-1.5h2a4 4 0 0 0 4-4c0-4.4-4-8-9-8z"/><circle cx="7.5" cy="11" r="1"/><circle cx="10" cy="7" r="1"/><circle cx="15" cy="7.5" r="1"/></svg>
+<h3 style="margin: 0; font-family: 'Unbounded', Arial, sans-serif; font-size: 20px; font-weight: 700; color: #0D1715">Цвета и&nbsp;шрифты</h3>
+<p style="margin: 0; font-size: 16px; line-height: 1.5; color: #3C4A46">Фирменные цвета агентства, светлая или тёмная тема, свой стиль плашек.</p>
+</div><div style="flex: 1 1 300px; min-width: 0; display: flex; flex-direction: column; gap: 12px; background: #FFFFFF; border-radius: 24px; padding: 26px">
+<svg viewBox="0 0 24 24" fill="none" stroke="#FF6A3D" stroke-width="2" stroke-linecap="round" stroke-linejoin="round" aria-hidden="true" style="width: 40px; height: 40px"><circle cx="12" cy="8" r="4"/><path d="M4 21c0-4 4-6 8-6s8 2 8 6"/></svg>
+<h3 style="margin: 0; font-family: 'Unbounded', Arial, sans-serif; font-size: 20px; font-weight: 700; color: #0D1715">Ваше имя, фото и&nbsp;контакты</h3>
+<p style="margin: 0; font-size: 16px; line-height: 1.5; color: #3C4A46">Карточка риелтора наверху, кнопка «Написать» ведёт в ваш Telegram.</p>
+</div><div style="flex: 1 1 300px; min-width: 0; display: flex; flex-direction: column; gap: 12px; background: #FFFFFF; border-radius: 24px; padding: 26px">
+<svg viewBox="0 0 24 24" fill="none" stroke="#FF6A3D" stroke-width="2" stroke-linecap="round" stroke-linejoin="round" aria-hidden="true" style="width: 40px; height: 40px"><rect x="3" y="3" width="7" height="7" rx="1.5"/><rect x="14" y="3" width="7" height="7" rx="1.5"/><rect x="3" y="14" width="7" height="7" rx="1.5"/><rect x="14" y="14" width="7" height="7" rx="1.5"/></svg>
+<h3 style="margin: 0; font-family: 'Unbounded', Arial, sans-serif; font-size: 20px; font-weight: 700; color: #0D1715">Свои разделы и&nbsp;объекты</h3>
+<p style="margin: 0; font-size: 16px; line-height: 1.5; color: #3C4A46">Новостройки, коттеджи, побережье, вторичка. Только те ЖК, с&nbsp;которыми вы работаете.</p>
+</div><div style="flex: 1 1 300px; min-width: 0; display: flex; flex-direction: column; gap: 12px; background: #FFFFFF; border-radius: 24px; padding: 26px">
+<svg viewBox="0 0 24 24" fill="none" stroke="#FF6A3D" stroke-width="2" stroke-linecap="round" stroke-linejoin="round" aria-hidden="true" style="width: 40px; height: 40px"><path d="M4 6h16M4 12h16M4 18h10"/></svg>
+<h3 style="margin: 0; font-family: 'Unbounded', Arial, sans-serif; font-size: 20px; font-weight: 700; color: #0D1715">Тексты и&nbsp;плашки</h3>
+<p style="margin: 0; font-size: 16px; line-height: 1.5; color: #3C4A46">Ваши преимущества, слоганы, описания. Пишем вашими словами.</p>
+</div><div style="flex: 1 1 300px; min-width: 0; display: flex; flex-direction: column; gap: 12px; background: #FFFFFF; border-radius: 24px; padding: 26px">
+<svg viewBox="0 0 24 24" fill="none" stroke="#FF6A3D" stroke-width="2" stroke-linecap="round" stroke-linejoin="round" aria-hidden="true" style="width: 40px; height: 40px"><path d="M12 2l3 6 6 1-4.5 4.5 1 6.5-5.5-3-5.5 3 1-6.5L3 9l6-1z"/></svg>
+<h3 style="margin: 0; font-family: 'Unbounded', Arial, sans-serif; font-size: 20px; font-weight: 700; color: #0D1715">Услуги и&nbsp;кнопки</h3>
+<p style="margin: 0; font-size: 16px; line-height: 1.5; color: #3C4A46">Ипотека, юрист, просмотр, консультация. Каждая кнопка ведёт к&nbsp;заявке вам.</p>
+</div><div style="flex: 1 1 300px; min-width: 0; display: flex; flex-direction: column; gap: 12px; background: #FFFFFF; border-radius: 24px; padding: 26px">
+<svg viewBox="0 0 24 24" fill="none" stroke="#FF6A3D" stroke-width="2" stroke-linecap="round" stroke-linejoin="round" aria-hidden="true" style="width: 40px; height: 40px"><path d="M22 2 11 13"/><path d="M22 2 15 22 11 13 2 9z"/></svg>
+<h3 style="margin: 0; font-family: 'Unbounded', Arial, sans-serif; font-size: 20px; font-weight: 700; color: #0D1715">Свой бот и&nbsp;ссылка</h3>
+<p style="margin: 0; font-size: 16px; line-height: 1.5; color: #3C4A46">Бот с вашим именем, своя ссылка и QR-код для сторис, визиток и&nbsp;баннеров.</p>
+</div></div>
 </div>
 </div>
 
@@ -357,7 +393,9 @@ summary::-webkit-details-marker{display:none}
 <div style="max-width: 1240px; margin: 0 auto; padding: 0 20px; display: flex; flex-direction: column; gap: clamp(40px, 6vw, 80px)">
 <div style="display: flex; flex-wrap: wrap; gap: clamp(32px, 5vw, 64px); align-items: center; justify-content: space-between">
 <div style="flex: 1 1 460px; min-width: 0; display: flex; flex-direction: column; gap: 28px">
-<h2 style="margin: 0; font-family: 'Unbounded', Arial, sans-serif; font-size: clamp(36px, 6vw, 84px); font-weight: 800; line-height: 1; letter-spacing: -0.02em">Покажу за&nbsp;минуту на&nbsp;вашем <span style="color: #FF6A3D">телефоне</span></h2>
+<h2 style="margin: 0; font-family: 'Unbounded', Arial, sans-serif; font-size: clamp(30px, 4.6vw, 62px); font-weight: 800; line-height: 1.05; letter-spacing: -0.02em">Вы покупаете не&nbsp;страницу в&nbsp;интернете, а&nbsp;<span style="color: #FF6A3D">продавца, который работает 24/7</span></h2>
+<p style="margin: 0; font-size: clamp(18px, 2vw, 22px); line-height: 1.55; color: #B9CBC5; max-width: 620px">Он показывает объекты, пока вы на&nbsp;показе, отвечает ценами и&nbsp;планировками ночью и&nbsp;приносит заявки, пока вы спите. Без выходных и&nbsp;отпусков.</p>
+<p style="margin: 0; font-family: 'Unbounded', Arial, sans-serif; font-size: clamp(18px, 2vw, 22px); font-weight: 700">Покажу за&nbsp;минуту на&nbsp;вашем телефоне.</p>
 <div style="display: flex; flex-wrap: wrap; gap: 12px">
 <a href="https://t.me/Evgeniy_Rieltor_KLD_bot/novostroy" target="_blank" rel="noopener" style="flex: 1 1 210px; max-width: 280px; box-sizing: border-box; text-align: center; padding: 18px 24px; background: #FF6A3D; color: #0D1715; font-size: 18px; font-weight: 800; text-decoration: none; border-radius: 16px">Попробовать</a>
 <a href="https://t.me/Evgeniy_Rieltor_KLD" target="_blank" rel="noopener" style="flex: 1 1 210px; max-width: 280px; box-sizing: border-box; text-align: center; padding: 16px 22px; color: #F2EEE6; font-size: 18px; font-weight: 800; text-decoration: none; border-radius: 16px; border: 2px solid #3A5751">Написать мне</a>
